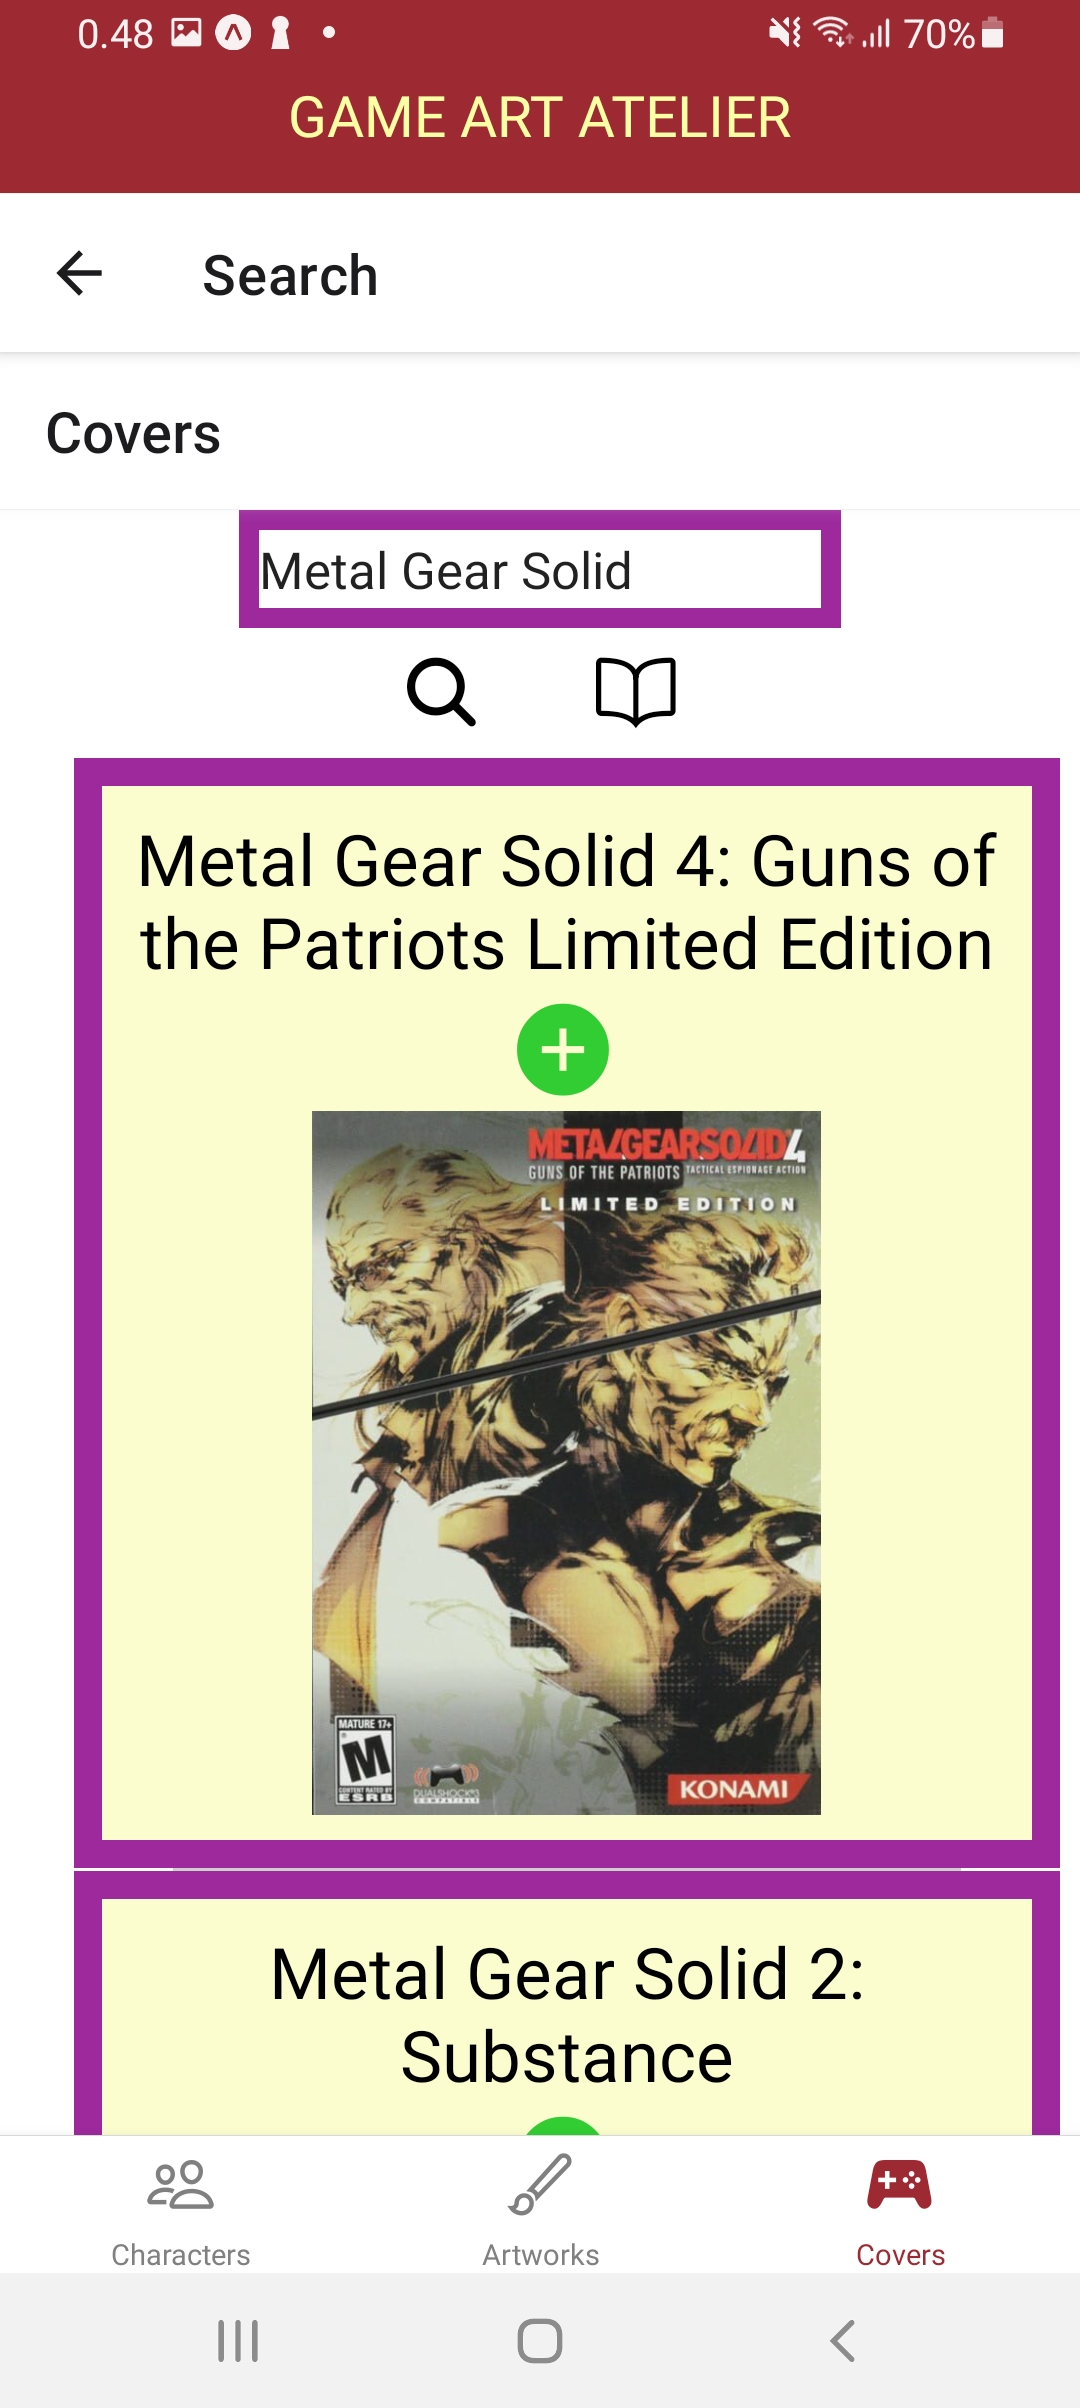
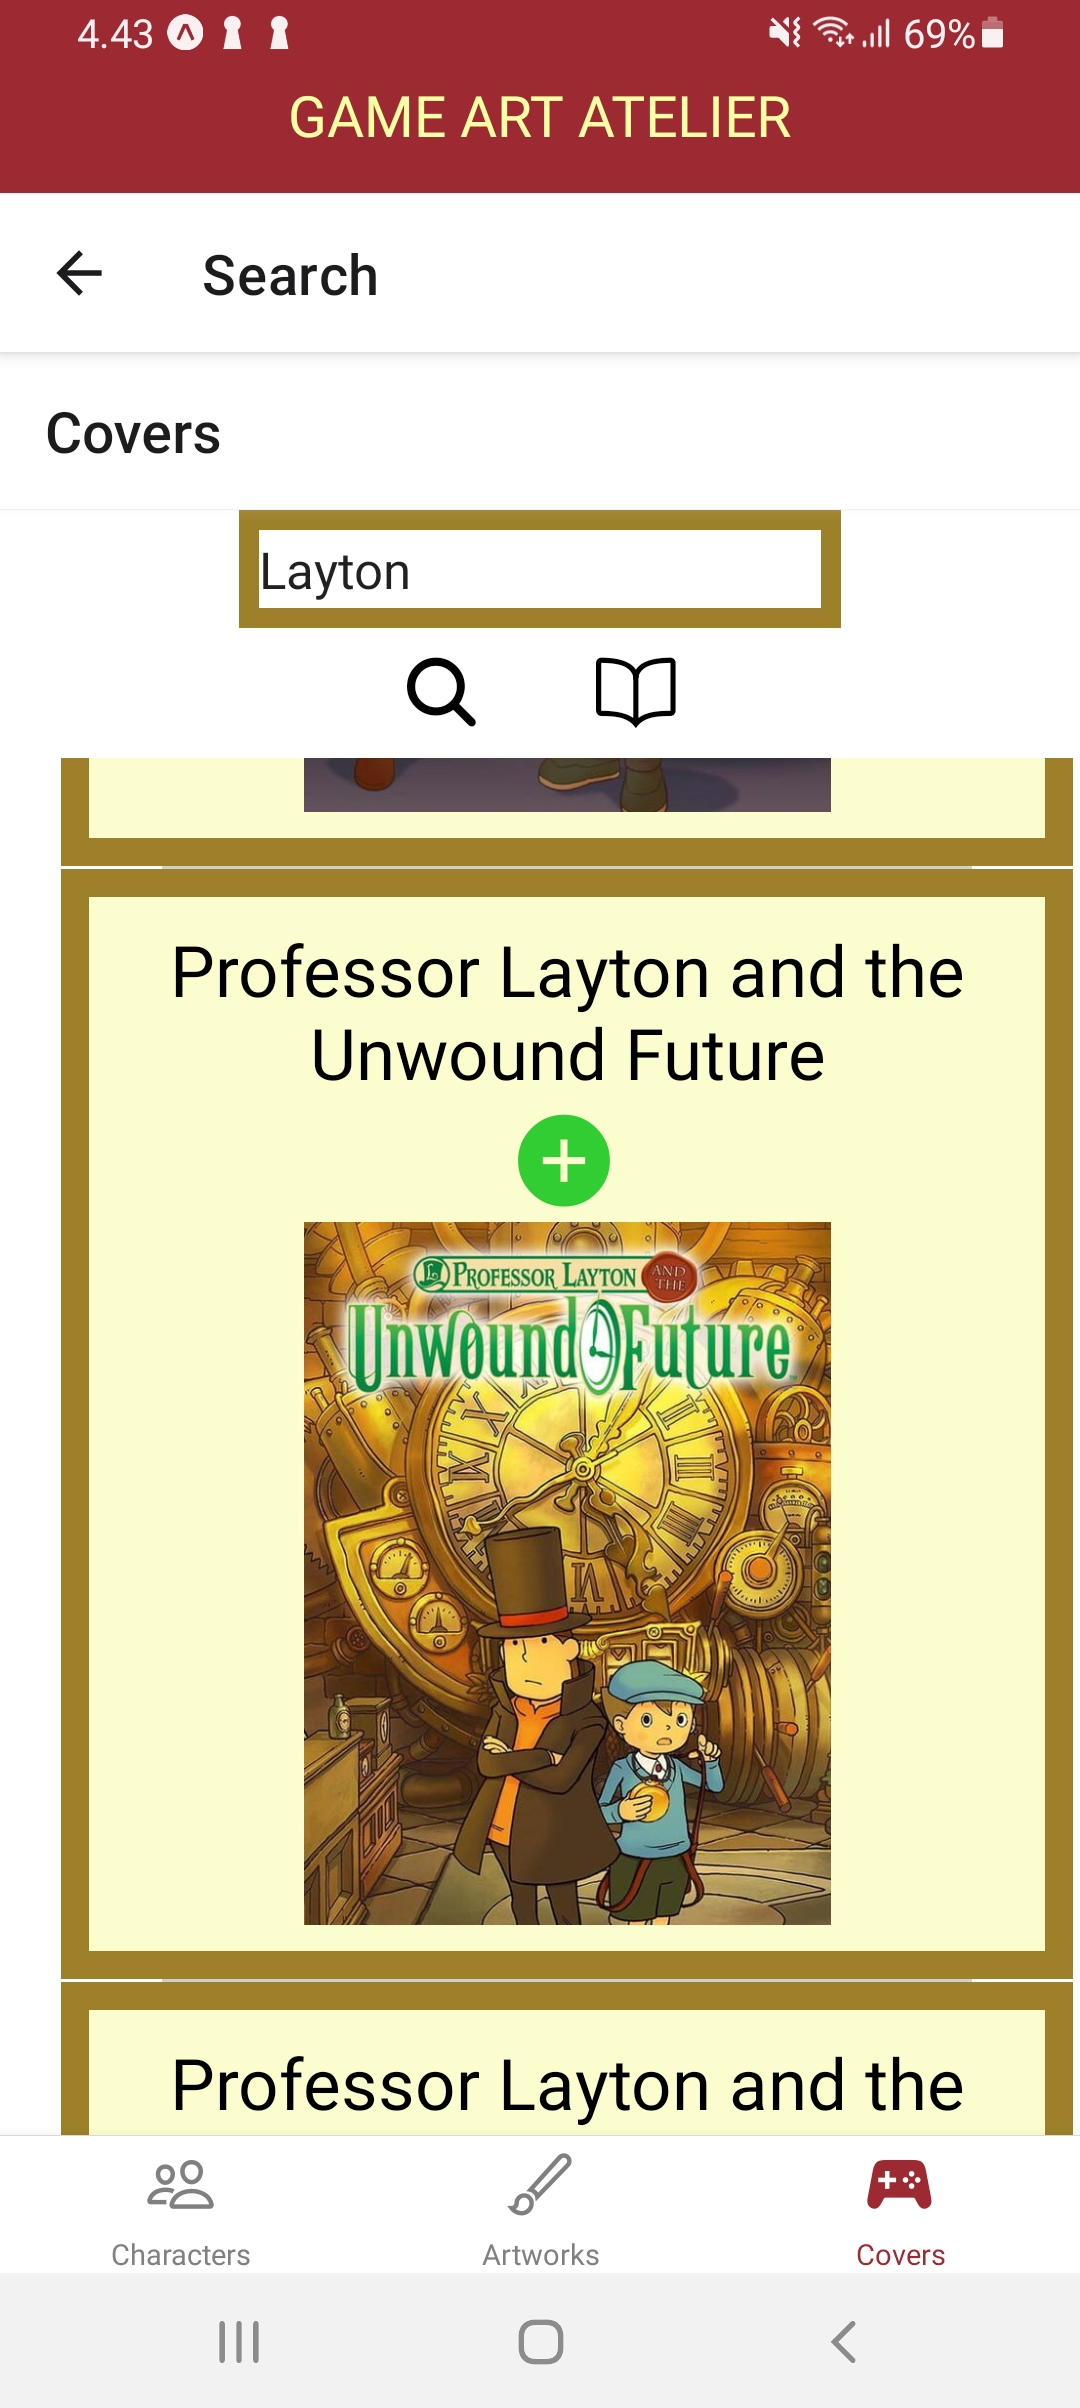
Fixed some border color mistakes

diff --git a/pages/SearchCovers.js b/pages/SearchCovers.js
@@ -134,13 +134,13 @@ const styles = StyleSheet.create({
    backgroundColor: '#FCFDCF',
    borderWidth: 10,
    padding: 9,
-   borderColor: '#9D299D',
+   borderColor: '#9D8029',
    alignItems: 'center',
    justifyContent: 'center',
   },
   searchbar:{
    borderWidth: 7,
-   borderColor: '#9D299D',
+   borderColor: '#9D8029',
   },
   button: {
    flexDirection: 'row',
